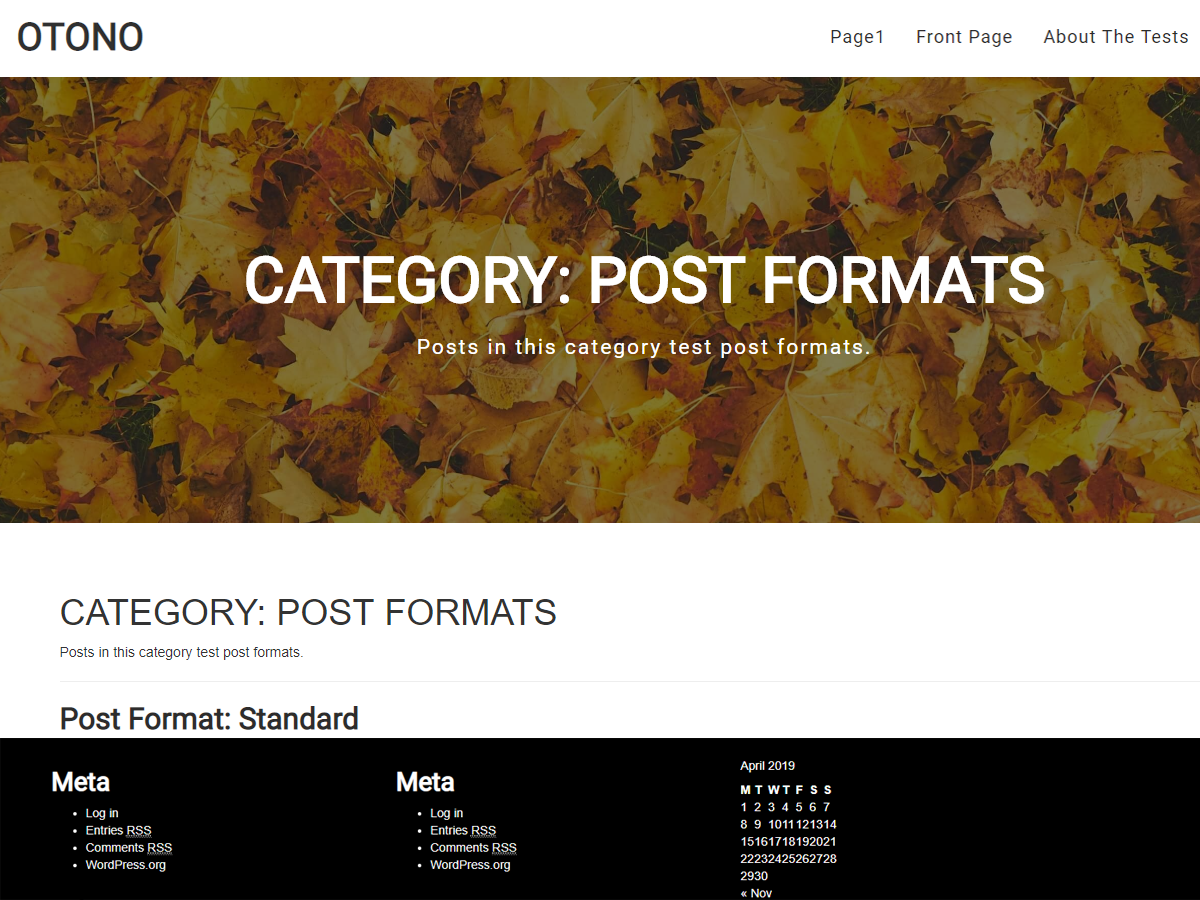
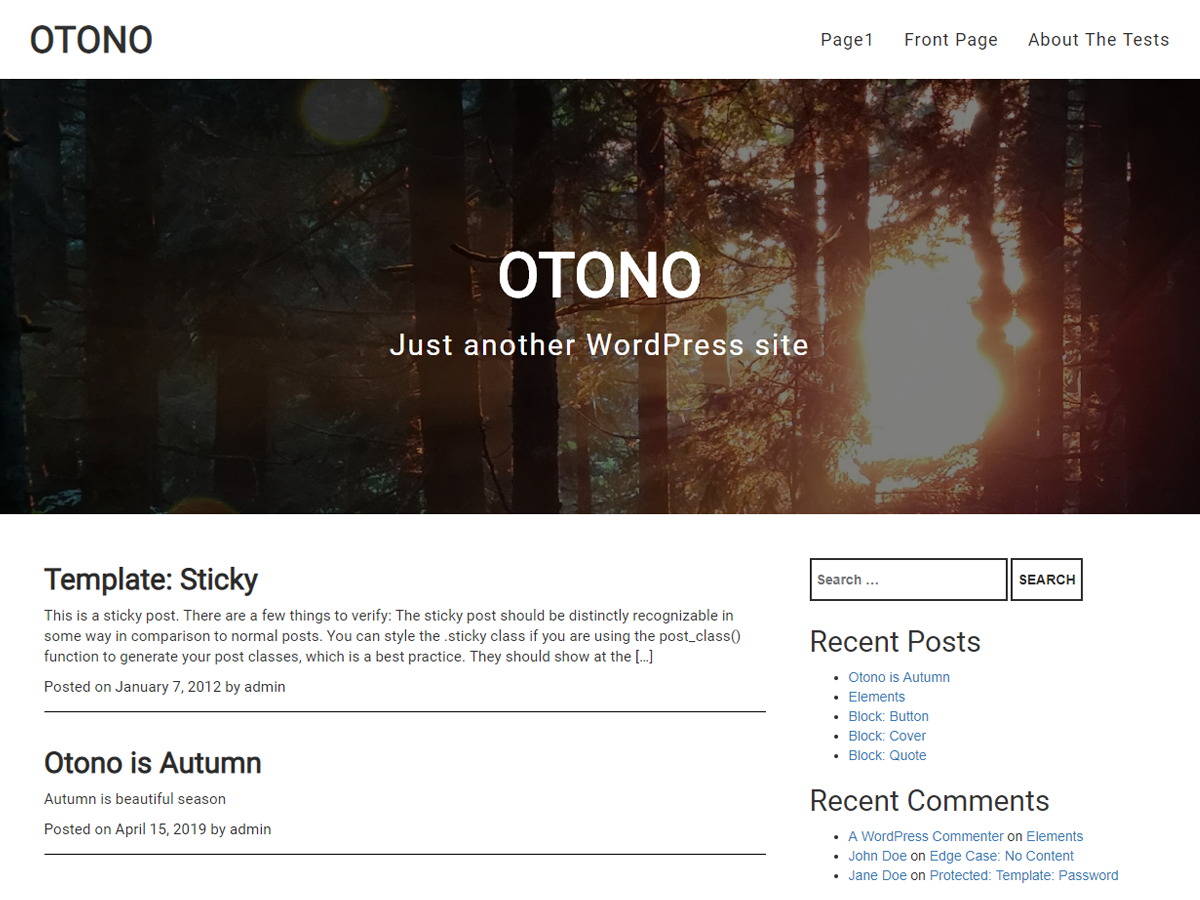
Modification in:
- theme-style.css/scss

diff --git a/style.css b/style.css
@@ -5,7 +5,7 @@ Author URI: https://profiles.wordpress.org/anischarolia/
 Theme URI: https://github.com/aneeshyder/otono
 Description: Otono theme comes with default posts and one page. It has one registered menu which is designed responsively.
 Requires at least: 5.0
-Version: 1.0.0
+Version: 1.0.1
 License: GNU General Public License
 License URI: - license.txt
 Text Domain: otono

diff --git a/header.php b/header.php
@@ -13,60 +13,44 @@
 <!doctype html>
 <html <?php language_attributes(); ?>>
 <head>
-	<meta charset="<?php bloginfo( 'charset' ); ?>">
-	<meta name="viewport" content="width=device-width, initial-scale=1">
-	<link rel="profile" href="https://gmpg.org/xfn/11">
-	<link href="https://fonts.googleapis.com/css?family=Roboto:300,400,500,700,900">
-	<?php wp_head(); ?>
+    <meta charset="<?php bloginfo( 'charset' ); ?>">
+    <meta name="viewport" content="width=device-width, initial-scale=1.0, maximum-scale=5.0"/>
+    <link rel="profile" href="https://gmpg.org/xfn/11">
+    
+    <?php wp_head(); ?> 
 </head>
 
 <body <?php body_class(); ?>>
 <div id="page" class="site">
-    <div id="navbar" class="navbar navbar-default navbar-page-title">
-        <div class="container">
-            <?php
-            the_custom_logo();
-            ?>
-            <div class="navbar-header">
-                <a class="navbar-brand" href="<?php echo esc_url( home_url( '/' ) ); ?>" rel="home"><?php bloginfo( 'name' ); ?></a>
-            </div>
-            <div class="navbar-responsive-collapse out" aria-expanded="true" style="">
-                <?php
-                $location = 'menu-1';
-                if ( has_nav_menu( $location ) ) {
-                        wp_nav_menu( array(
-                            'theme_location' => $location,
-                            'menu_id'        => 'primary-menu',
-                            'items_wrap' => '<ul class="nav navbar-nav navbar-right">%3$s</ul>'
-                        ) 
-                    );
-                }
-                ?>
-            </div>            
-	        <div class="menu-btn"></div>
+    <a class="skip-link screen-reader-text" href="#content"><?php esc_html_e( 'Skip to content', 'informative-blogs' ); ?></a>
 
-        </div>
-    </div>
-    <header id="page-title" class="jumbotron background">
+    <header id="masthead" class="site-header fixed-top">
         <div class="container">
-            <div class="horizontal-center vertical-center">
-				<?php if(is_front_page()){ ?>
-						<h1 class="article-title"><?php bloginfo( 'name' ); ?></h1>
-						<?php $otono_description = get_bloginfo( 'description', 'display' );
-						if ( $otono_description || is_customize_preview() ) {?>
-						<h2 class="article-subtitle"><?php echo $otono_description; /* WPCS: xss ok. */ ?></h2>
-				<?php }}
-					elseif(is_archive()){
-						the_archive_title( '<h1 class="article-title">', '</h1>' );
-						the_archive_description( '<h2 class="article-subtitle">', '</div>' );
-					}else{
-					?>
-					<h1 class="article-title"><?php echo get_the_title(); ?></h1>
-					<?php
-					}
-				?>
-            </div>
+            <div class="header-inner">
+                <div class="site-branding">
+                    <?php
+                        the_custom_logo();
+                        if ( is_front_page() && is_home() ) :
+                            ?>
+                            <h1 class="site-title"><a href="<?php echo esc_url( home_url( '/' ) ); ?>" rel="home"><?php bloginfo( 'name' ); ?></a></h1>
+                            <?php
+                        else :
+                            ?>
+                            <p class="site-title h1"><a href="<?php echo esc_url( home_url( '/' ) ); ?>" rel="home"><?php bloginfo( 'name' ); ?></a></p>
+                            <?php
+                        endif;
+                    ?>
+                </div><!-- .site-branding -->                           
+            </div><!-- .header-inner -->
         </div>
-    </header>
+    </header><!-- #masthead -->
 
-    <div class="container foreground">
+    <div id="content" class="site-content">
+        <div class="main">
+            <div class="container">
+                <?php if ( get_header_image() ) : ?>
+                    <div class="header-image col-lg-12">
+                        <img src="<?php echo esc_url( get_header_image() ); ?>" alt="<?php echo esc_attr( get_bloginfo( 'title' ) ); ?>" />
+                    </div>
+                <?php endif; ?>
+

diff --git a/index.php b/index.php
@@ -33,9 +33,8 @@ get_header();
 
 			/* Start the Loop */
 			while ( have_posts() ) :
-				the_post();
+				the_post();				
                 ?>
-
       <div class="bs-component">
       <?php
 				/*
